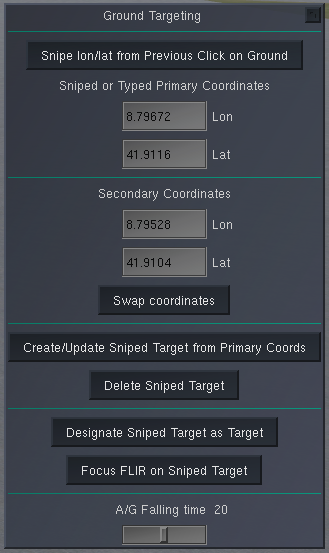
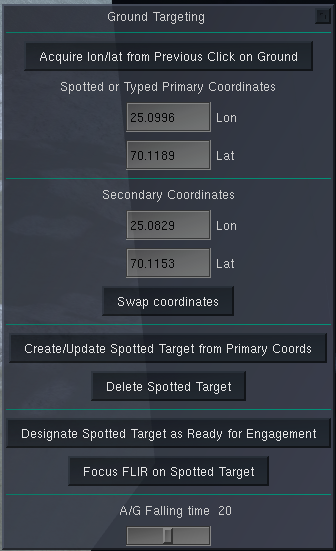
* Change wording for ground targeting in gui dialogue and manual * Align naming of ground targeting variables * Give more hints / checklist for ground targeting

Changed region(s): [[0.0, 0.0, 1.0, 1.0]]

diff --git a/manual_rst/weapons.rst b/manual_rst/weapons.rst
@@ -202,19 +202,21 @@ In the ``Mirage 2000`` menu there is a menu point ``Ground Targeting``, which wi
 .. image:: images/ground_attack_targeting_dialogue.png
    :scale: 50%
 
-It is important to do all steps sequentially!
+It is important to do all steps sequentially: (a) acquire a targets coordinates, (b) make it a spotted target, (c) designate the target for engagement.
 
-You can acquire coordinates in two ways: either write the lon and lat directly into the fields - or click on the ground where you want to pick the coordinate and then press the top button (it will be disabled if no laser designation pod has been added to the airplane).
+You can acquire coordinates in two ways: either write the lon and lat directly into the fields - or look outside of the cockpit and click on the ground where you want to pick the coordinate from. Then press the top button (it will be disabled if no laser designation pod has been added to the airplane).
 
 Always the primary coordinates will be used to create/update targets, but a secondary pair can be input as well. A button can swap the primary and secondary coordinates.
 
-A sniped target (simulating what would be done with a laser) can be created with a button based on the primary coordinates. NB: the view can temporarily be changed automatically, such that the coordinate including its elevation above sea level can be fetched behind the scenes.
+A spotted target (simulating what would be done with a laser) can be created with a button based on the primary coordinates. NB: the view can briefly changed automatically, such that the coordinate including its elevation above sea level can be fetched by FlightGear behind the scenes.
 
-The target can then be designated using another button.
+The spotted target can then become a designated target using another button.
 
-Alternatively, using ``Key: ctrl-l`` you can fast snipe and designate the clicked target for laser.
+Alternatively, using ``Key: ctrl-l`` you can fast spot and designate the clicked target for laser.
 
 A FLIR view (``Key: F6``) can be activated and the button ``Focus FLIR on Sniped Target`` will then point the laser to the sniped coordinates. Thereby the coordinate can be improved by clicking exactly on the target through the FLIR and then updating the target.
+
+NB: The laser-guided bombs and the AS-30L have a relatively narrow seeker field of view of ca. 30 degrees. Therfore, the aircraft nose must point to the designated target at launch time, such that the seeker can pick it up.
 
 
 MK-82 / MK-82SE and GBU-12/GBU-24
